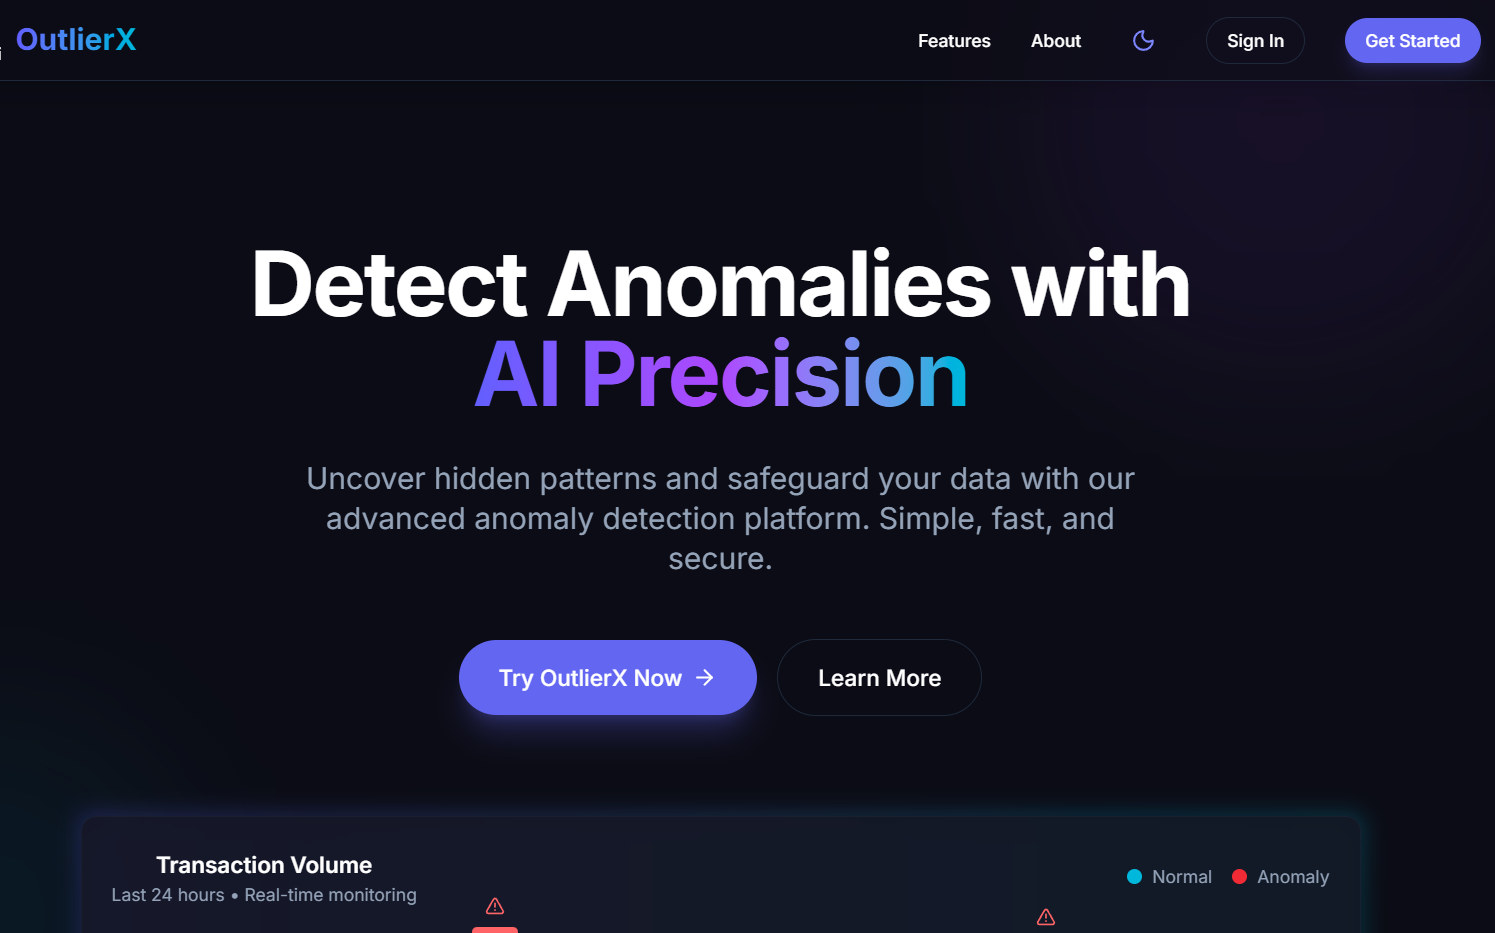
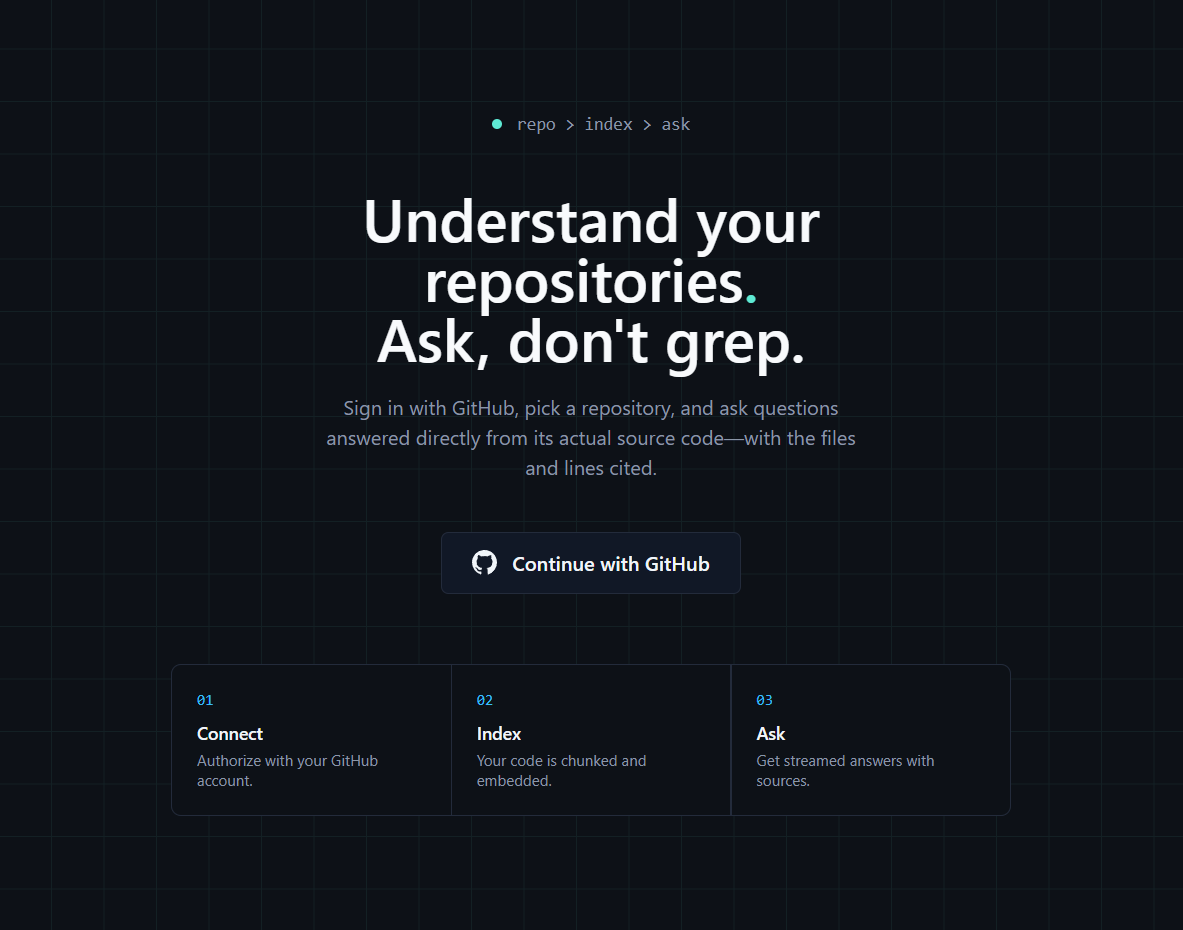
final changes

diff --git a/src/data/resume.tsx b/src/data/resume.tsx
@@ -20,7 +20,7 @@ export const DATA = {
   description:
     "Computer Engineering student and full-stack developer building AI-powered, distributed, and data-intensive products.",
   summary:
-    "I am a Computer Engineering student at [Pune Institute of Computer Technology](#education) with a CGPA of 9.04/10. I build full-stack systems across [AI workflows](#projects), backend services, and modern web apps, with hands-on experience in Go, Next.js, PostgreSQL, AWS S3, Kafka, Redis, Docker, and Python. Recently, I worked as a [Full Stack Developer at Prime Vacations](#work), where I built AI-assisted travel query resolution, automated scraping pipelines, and responsive package-building workflows.",
+    "I am a Computer Engineering student at [Pune Institute of Computer Technology](#education) with a CGPA of 9.04/10. I build full-stack systems across [AI workflows](#projects), backend services, and modern web apps, with hands-on experience in Go, Node.js, PostgreSQL, AWS, Kafka, Redis, Docker, and Python. Recently, I worked as a [Full Stack Developer at Prime Vacations](#work), where I built AI-assisted travel query resolution, automated scraping pipelines, and responsive package-building workflows.",
   avatarUrl: "/profile.png",
   achievements: [
     {
@@ -152,27 +152,24 @@ export const DATA = {
     },
     {
       title: "OutlierX",
-      href: "https://github.com/Adit3107",
+      href: "https://github.com/Adit3107/OutlierX",
       dates: "2026",
       active: true,
       description:
-        "Fake transaction detection platform with a 7-service event-driven microservices architecture, Nginx API gateway, async CSV ingestion using BullMQ, Apache Kafka streaming, and a Python FastAPI ML service using Isolation Forest plus rule-based detection. Added Redis behavioral profiling, real-time SSE dashboards, Twilio alerts, Razorpay payments, JWT, Google OAuth, OTP verification, and Docker Compose deployment.",
+        "Multi-tenant financial anomaly detection SaaS with organization-based access control, transaction CSV ingestion, investigation tools, explainable rule scoring, Isolation Forest predictions, and combined risk decisions. Includes analytics, alert management, API keys, audit activity, and ML model monitoring.",
       technologies: [
-        "Node.js",
+        "Next.js",
+        "TypeScript",
         "Express",
-        "Kafka",
-        "Redis",
-        "BullMQ",
         "PostgreSQL",
-        "Docker",
-        "Prisma",
-        "Python",
+        "Clerk",
         "FastAPI",
+        "Isolation Forest",
       ],
       links: [
         {
           type: "Source",
-          href: "https://github.com/Adit3107",
+          href: "https://github.com/Adit3107/OutlierX",
           icon: <Icons.github className="size-3" />,
         },
       ],
@@ -185,8 +182,8 @@ export const DATA = {
       dates: "2026",
       active: true,
       description:
-        "An AI-powered coding assistant designed to help developers work through code tasks.",
-      technologies: ["AI", "Developer Tools"],
+        "Connect GitHub, index a repository with Jina, and ask questions answered from the codebase using retrieval-augmented generation with file and line citations.",
+      technologies: ["Spring Boot", "Next.js", "RAG", "Code Indexing", "Jina"],
       links: [
         {
           type: "Source",
@@ -198,17 +195,27 @@ export const DATA = {
       video: "",
     },
     {
-      title: "Flowmind",
-      href: "https://github.com/Adit3107",
+      title: "FlowMind",
+      href: "https://github.com/Adit3107/FlowMind",
       dates: "2026",
       active: true,
       description:
-        "A workflow-focused project for organizing ideas and turning them into structured processes.",
-      technologies: ["Workflow", "Productivity"],
+        "An AI-powered collaborative workspace for notes, tasks, whiteboards, and team collaboration, with shared pages and real-time editing.",
+      technologies: [
+        "Next.js",
+        "TypeScript",
+        "Clerk",
+        "Neon PostgreSQL",
+        "Drizzle ORM",
+        "Liveblocks",
+        "Tiptap",
+        "Excalidraw",
+        "Yjs",
+      ],
       links: [
         {
           type: "Source",
-          href: "https://github.com/Adit3107",
+          href: "https://github.com/Adit3107/FlowMind",
           icon: <Icons.github className="size-3" />,
         },
       ],
